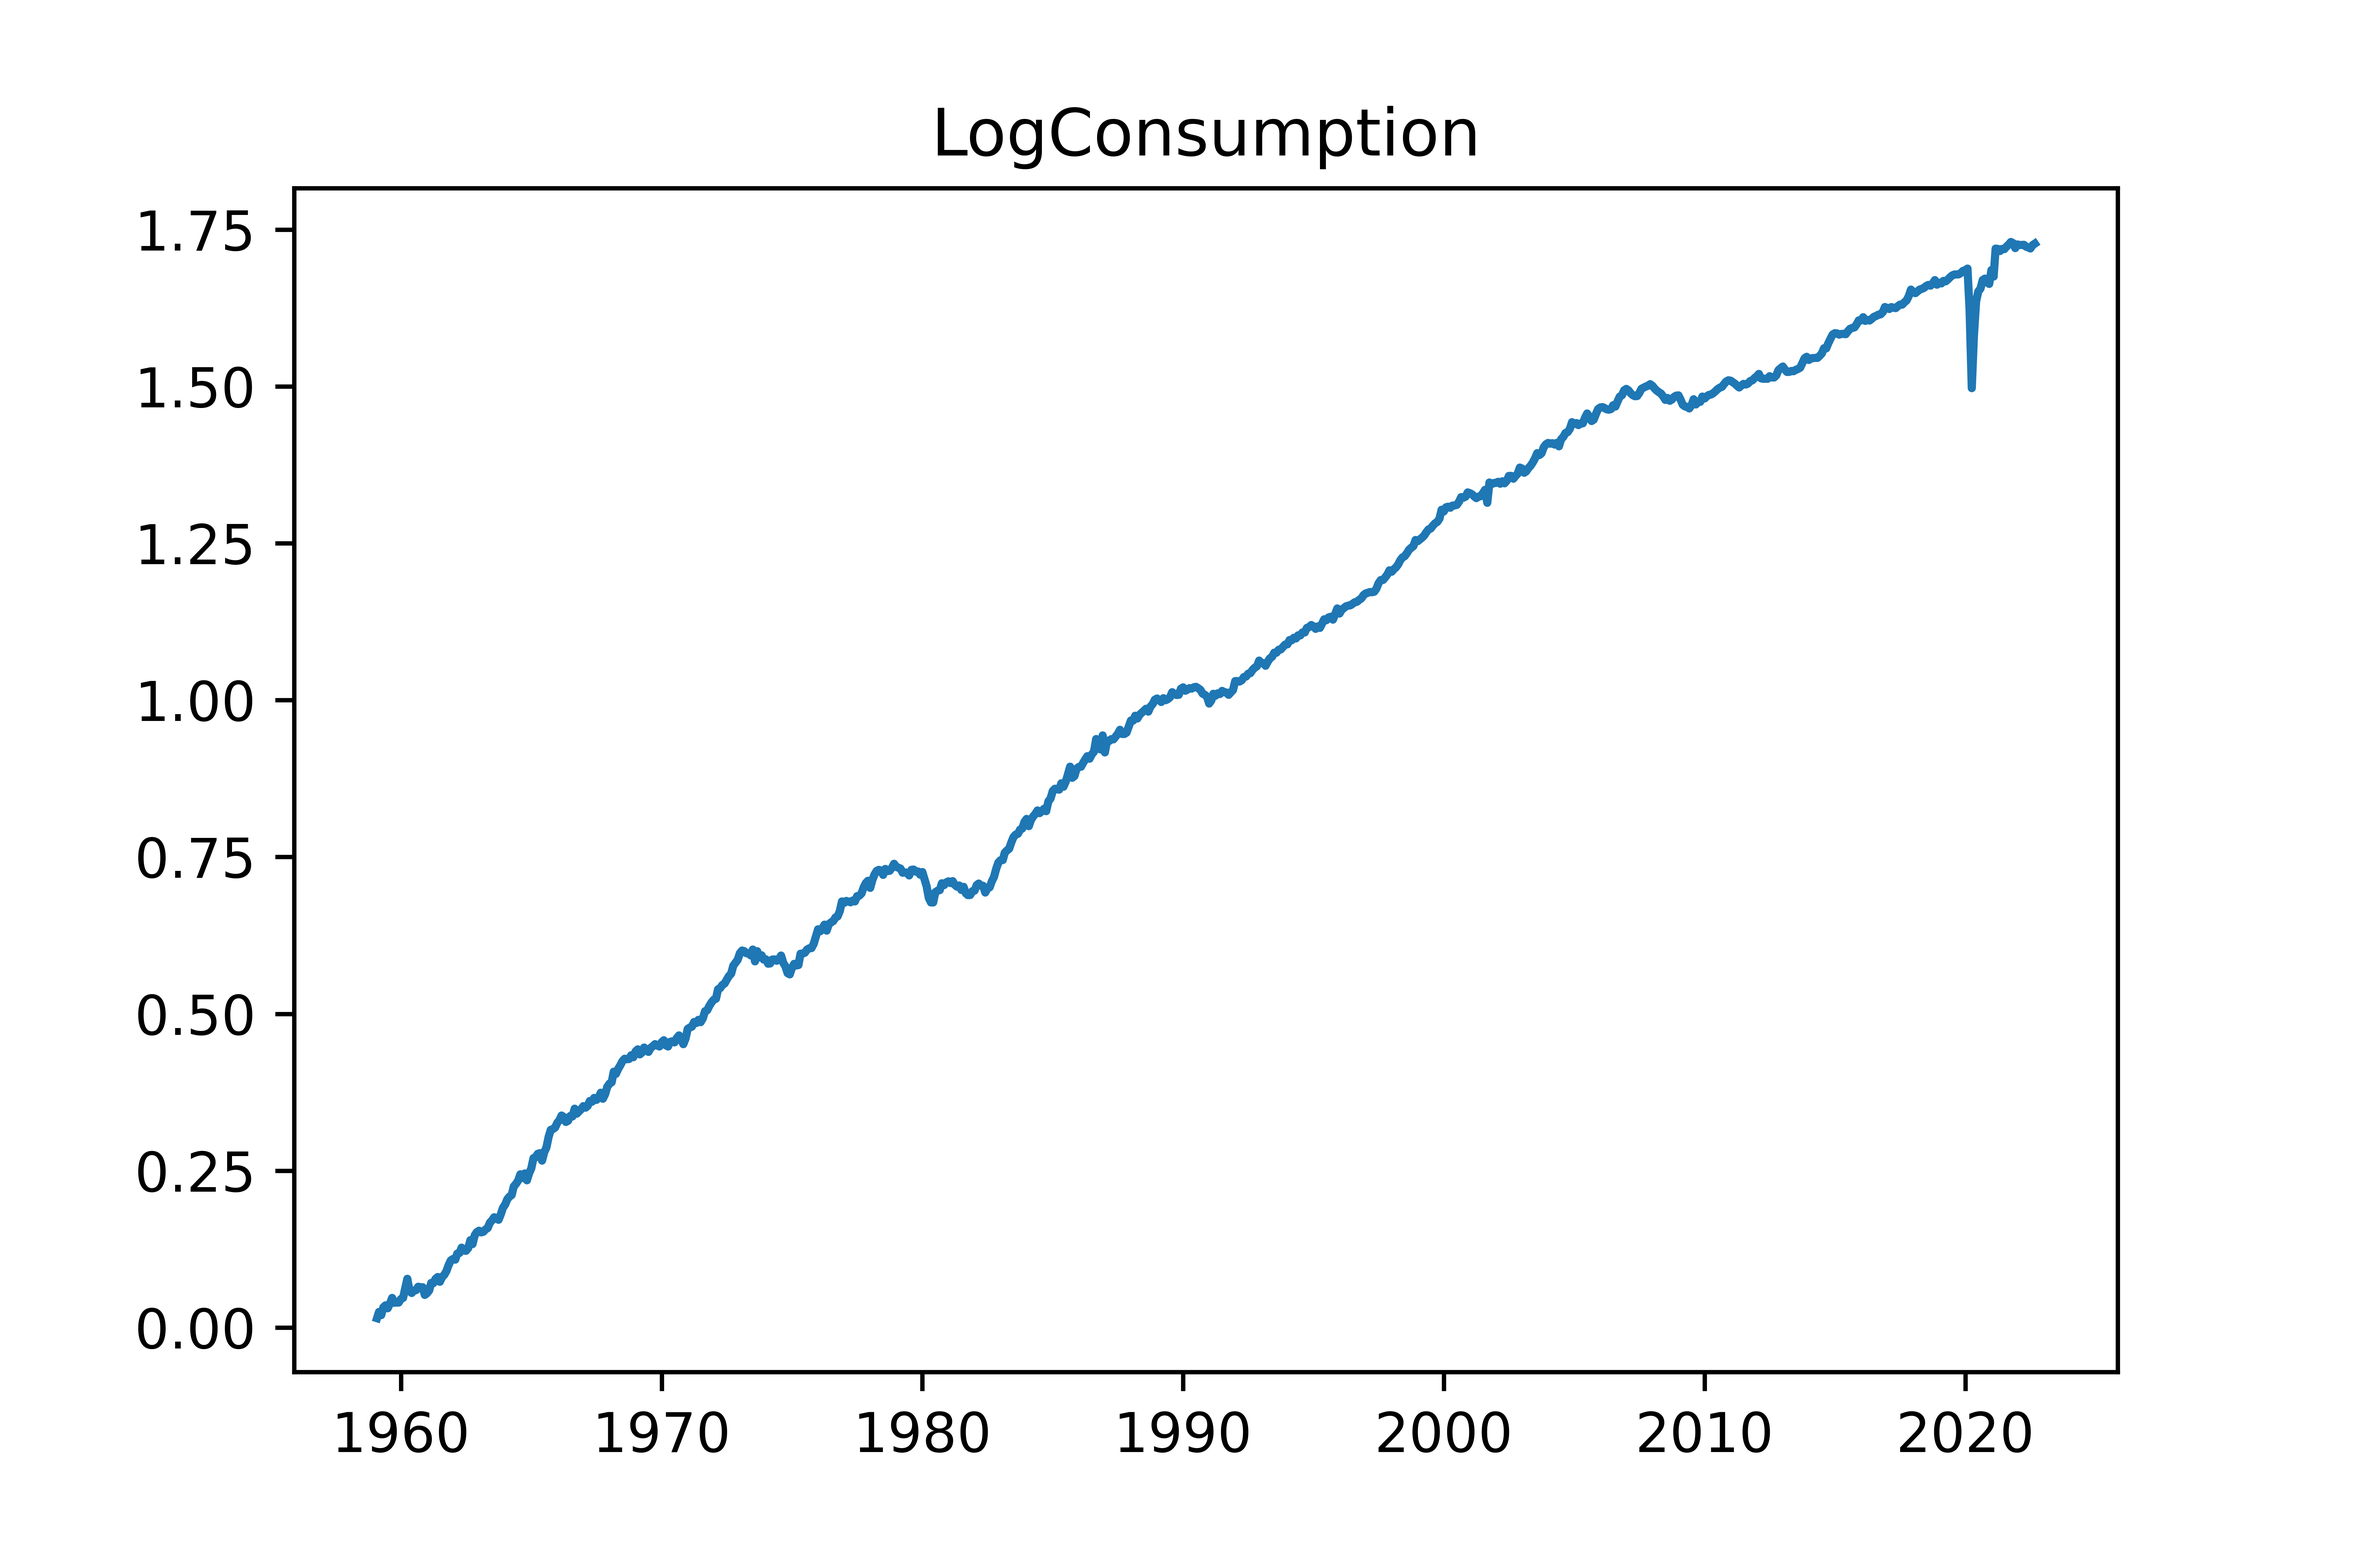
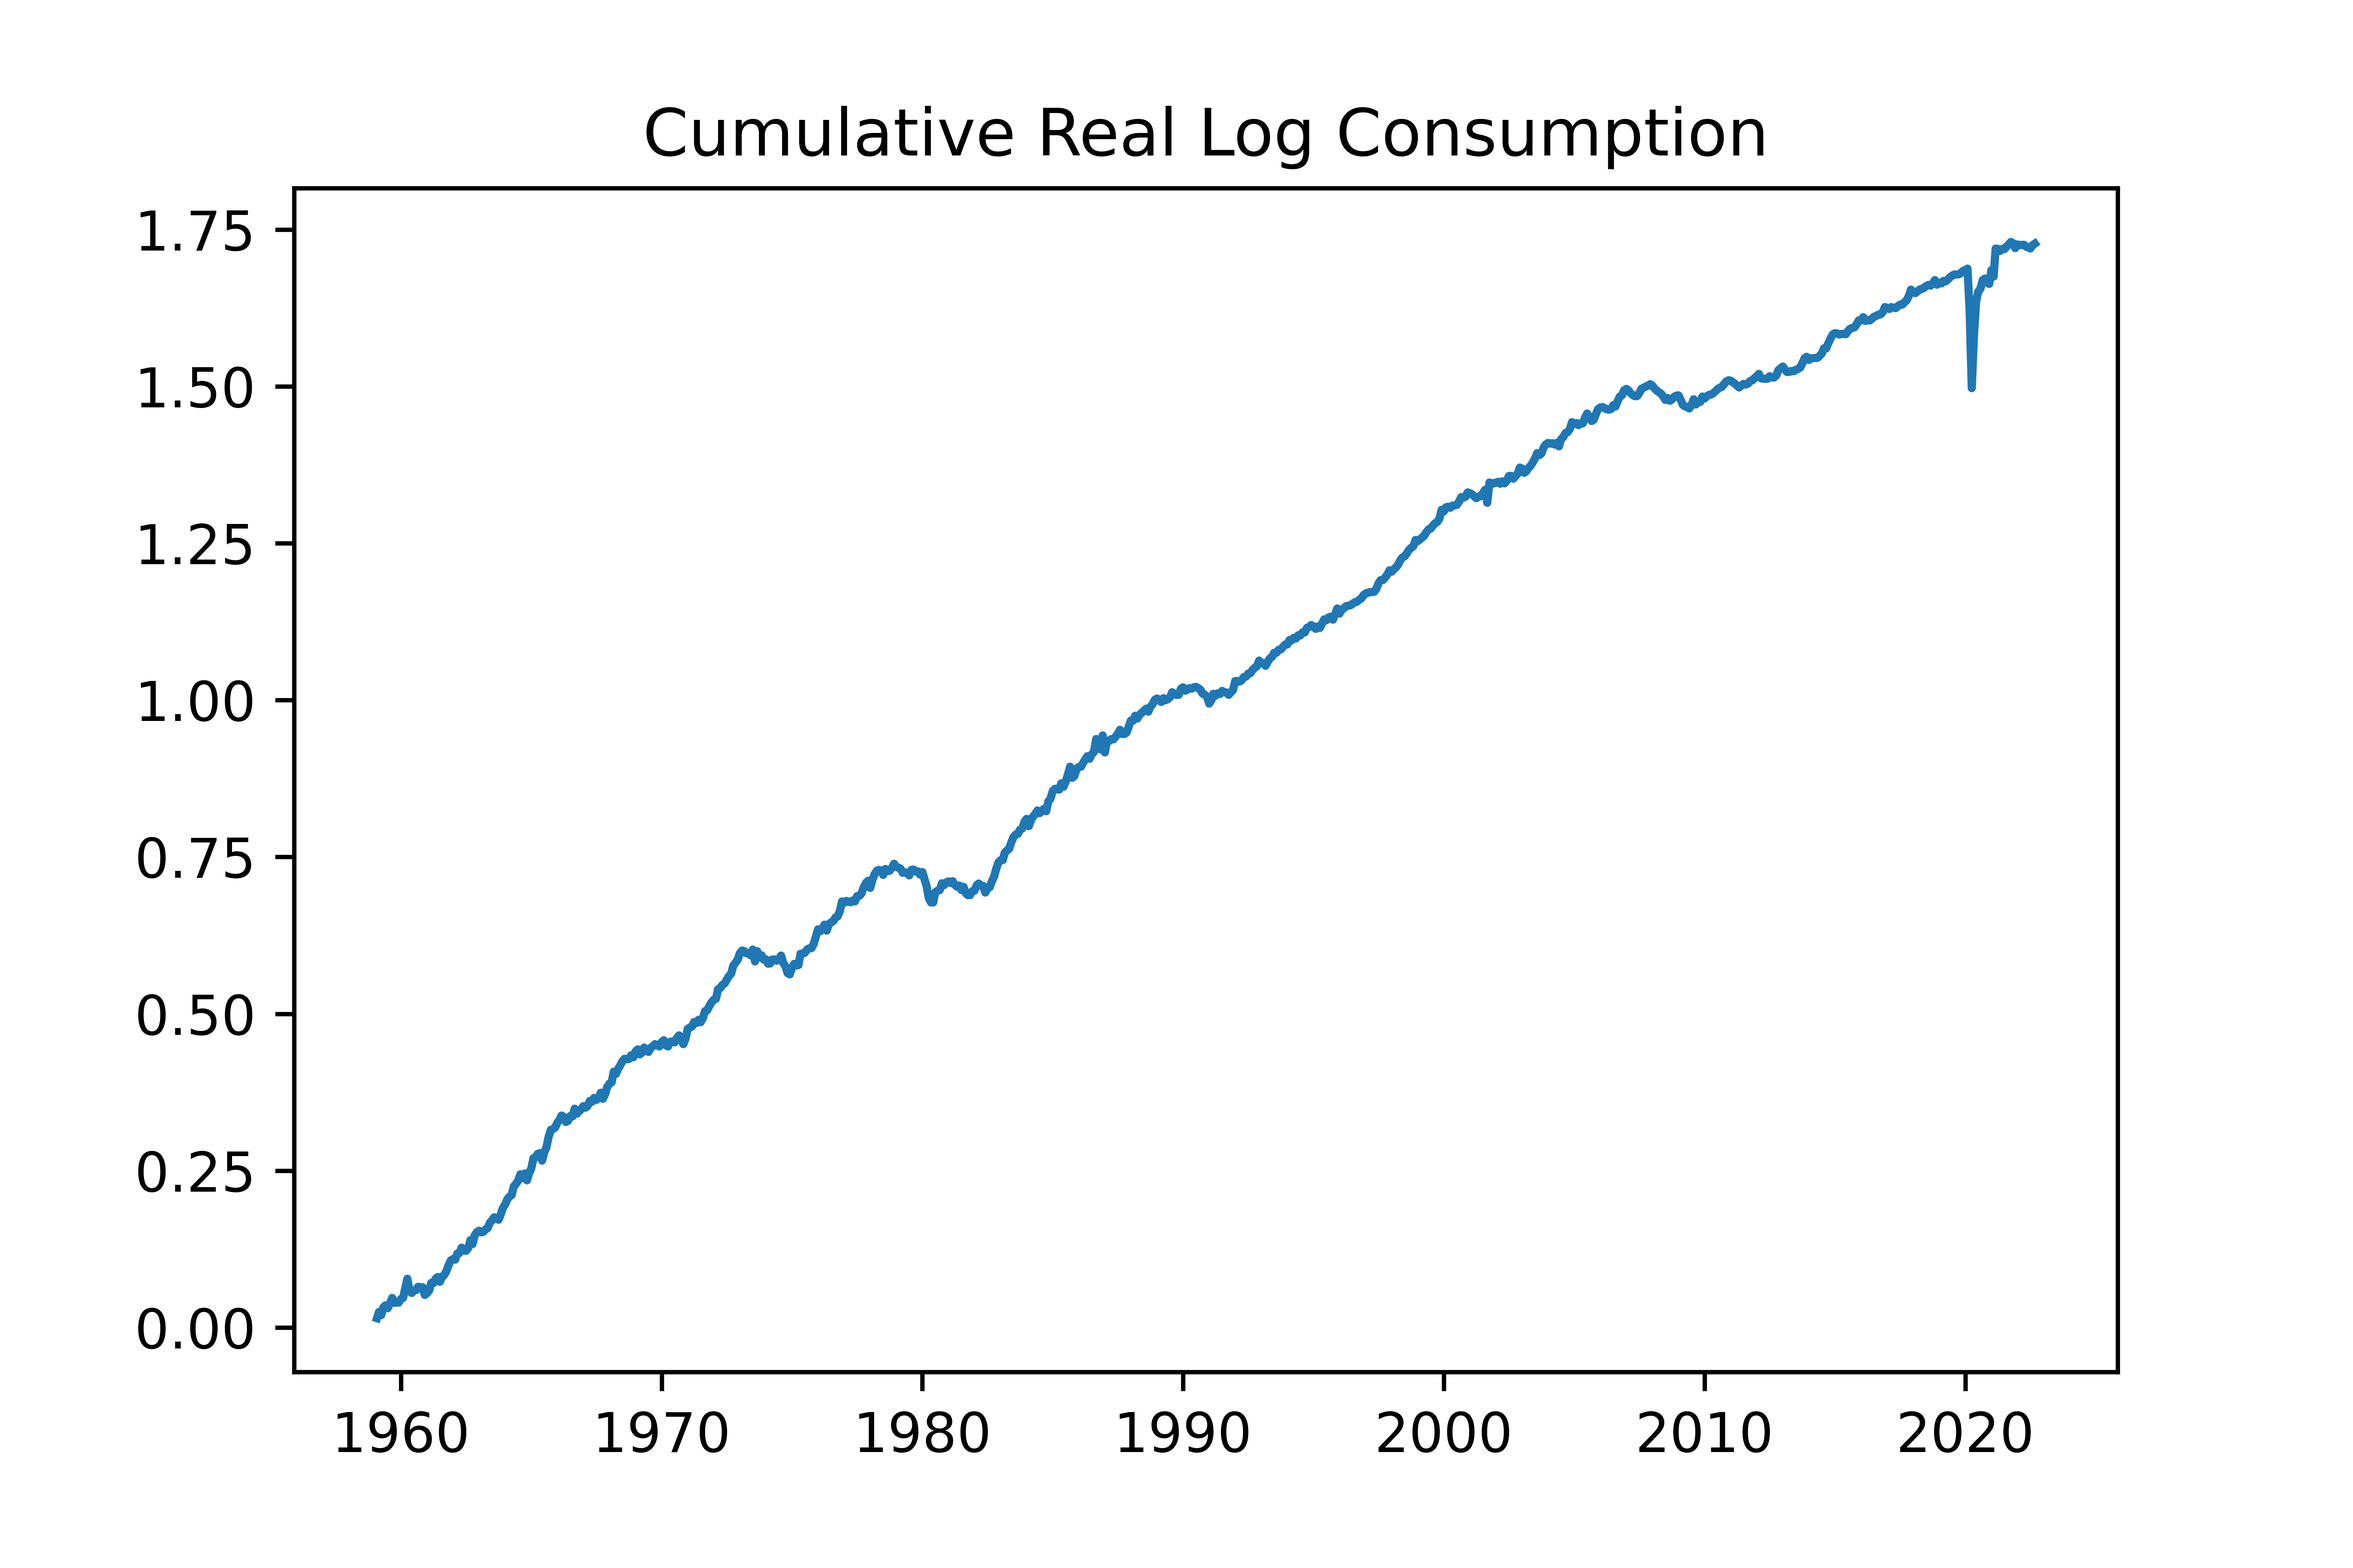
figure corrections

Changed region(s): [[0.2812, 0.0625, 0.75, 0.125]]

diff --git a/main.py b/main.py
@@ -62,7 +62,7 @@ gamma = np.arange( 0, 50, 1 )
 ERP = equityRiskPremium( gamma = gamma )
 Risky = equityRateReturn( gamma=gamma )
 
-plt.figure()
+plt.figure(1)
 plt.plot( gamma, ERP*100 )
 plt.title( "Equity Risk Premium as a function of risk aversion" )
 plt.xlabel( "gamma" )
@@ -70,7 +70,7 @@ plt.ylabel( "E[R]-Rf in (%)" )
 plt.savefig( "results/ERPGamma.png", dpi=1200 )
 plt.show()
 
-plt.figure()
+plt.figure(2)
 plt.plot( gamma, ERP*100 )
 plt.plot( gamma, Risky*100 )
 plt.title( "Equity Risk Premium as a function of risk aversion" )
@@ -97,59 +97,67 @@ stat.to_latex("results/ex3.tex")
 corr = data.corr()
 corr.to_latex("results/corr.tex")
 
-plt.figure()
+plt.figure(3)
 plt.title( "Correlation heatmap" )
 sns.heatmap( corr, annot=True, cmap="ocean" )
 plt.savefig( "results/correlation.png", dpi=1200 )
 plt.show()
 
-plt.figure()
+plt.figure(4)
 plt.plot( (1+data["RealSP500"]).cumprod()*100)
-plt.title("S&P500")
+plt.title("Real S&P500")
+plt.ylabel("$")
 plt.savefig("results/sp500.png", dpi=1200)
 plt.show()
 
 plt.plot( data["realConsGrowth"].cumsum())
-plt.title("LogConsumption")
+plt.title("Cumulative Real Log Consumption")
 plt.savefig("results/cons.png", dpi=1200)
 plt.show()
 
-plt.figure()
-plt.plot((1+data["realIr"]).cumprod())
+plt.figure(5)
+plt.plot((1+data["realIr"])**(12)-1)
 plt.title("Real Interest Rate")
 plt.ylabel("R in (%)")
 plt.savefig("results/reinte.png", dpi=1200)
 plt.show()
 
-plt.figure()
+plt.figure(5)
+plt.plot((1+data["realIr"]).cumprod())
+plt.title("Cumulative investment in Real Interest Rate")
+plt.ylabel("$")
+plt.savefig("results/cumprodREINTE.png", dpi=1200)
+plt.show()
+
+plt.figure(6)
 plt.plot(df["CPI"].pct_change()*100)
 plt.title("Inflation rate")
 plt.ylabel("Inflation rate in %")
 plt.savefig("results/inflation.png", dpi=1200)
 plt.show()
 
-plt.figure()
+plt.figure(7)
 (df["Dividend"]+df["SP500"]).plot()
 plt.title("Nominal S&P 500")
 plt.savefig("results/sp500nom.png", dpi=1200)
 plt.ylabel("Price")
 plt.show()
 
-plt.figure()
+plt.figure(8)
 df["LTIR"].plot()
 plt.ylabel("R in (%)")
 plt.title("Nominal Interest Rate")
 plt.savefig("results/nomIR.png", dpi=1200)
 plt.show()
 
-plt.figure()
+plt.figure(9)
 df["CPI"].plot()
 plt.ylabel("Price")
-plt.title("Consummer price index")
+plt.title("consumer price index")
 plt.savefig("results/CPI.png", dpi=1200)
 plt.show()
 
-plt.figure()
+plt.figure(10)
 df["Consumption"].plot()
 plt.ylabel("Price")
 plt.title("Nominal consumption")
